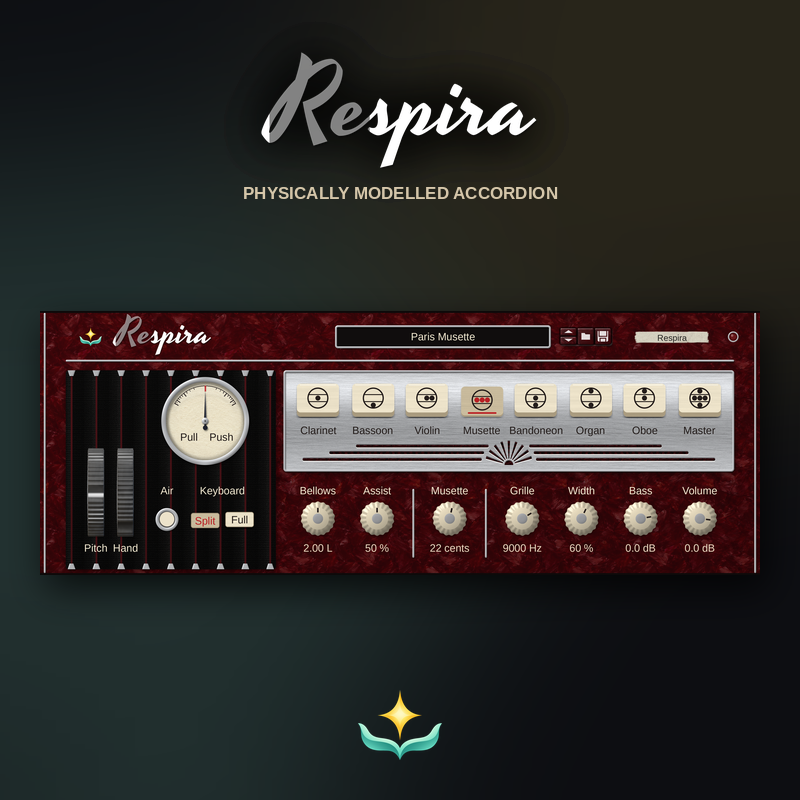
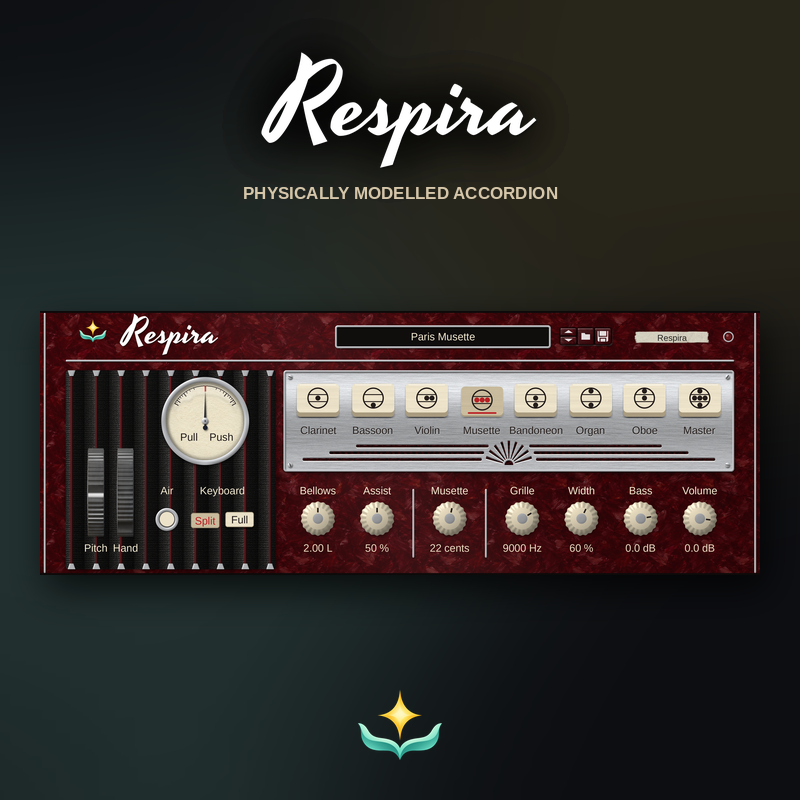
Respira's chosen red panel on its coming-soon page
The owner chose the red panel; its front and rear previews and the
thumbnail now come from reason-rack-extensions main c2268f5c, with the
solid white wordmark, the aligned header and the more realistic bellows,
grille and celluloid. The thumbnail's wordmark follows the panel's, so
its RE pair is no longer dimmed.

Claude-Session: https://claude.ai/code/session_01FqKD1t6d9Tje5juqcUbKQ6

diff --git a/product/respira/index.html b/product/respira/index.html
@@ -11,7 +11,7 @@
   <meta property="og:description" content="Respira is a physically modelled accordion Rack Extension for Reason, in development: play the bellows with the mod wheel, through eight registers of simulated steel reeds with bass and chord buttons.">
   <meta property="og:type" content="website">
   <meta property="og:url" content="https://protocodus.cz/product/respira/">
-  <meta property="og:image" content="https://protocodus.cz/product/respira/Respira_Thumbnail_800.png?v=20261027-respira-oxblood">
+  <meta property="og:image" content="https://protocodus.cz/product/respira/Respira_Thumbnail_800.png?v=20261027-respira-red">
   <meta property="og:image:width" content="800">
   <meta property="og:image:height" content="800">
   <meta property="og:image:alt" content="Respira Rack Extension front panel under the Respira name, with the hand wheels and pressure gauge on bellows cloth and eight register tabs on a nickel grille">
@@ -87,8 +87,8 @@
           </div>
         </div>
         <figure class="shot hero-shot">
-          <a class="screenshot-link" href="respira-rack-front.webp?v=20261027-respira-oxblood" aria-label="View the Respira Rack Extension front panel at full size" data-analytics-cta="front_panel" data-analytics-action="view_screenshot">
-            <img src="respira-rack-front.webp?v=20261027-respira-oxblood" width="1508" height="552" fetchpriority="high" decoding="async" alt="Respira Rack Extension front panel with a pull and push pressure gauge, pitch and hand wheels, the air button and keyboard switch on bellows cloth, eight register tabs on a nickel grille and seven sound controls">
+          <a class="screenshot-link" href="respira-rack-front.webp?v=20261027-respira-red" aria-label="View the Respira Rack Extension front panel at full size" data-analytics-cta="front_panel" data-analytics-action="view_screenshot">
+            <img src="respira-rack-front.webp?v=20261027-respira-red" width="1508" height="552" fetchpriority="high" decoding="async" alt="Respira Rack Extension front panel with a pull and push pressure gauge, pitch and hand wheels, the air button and keyboard switch on bellows cloth, eight register tabs on a nickel grille and seven sound controls">
             <span class="shot-caption">Front panel · development build <span>View full size <span aria-hidden="true">↗</span></span></span>
           </a>
         </figure>
@@ -120,8 +120,8 @@
           <p class="lede">Turn the rack around for Momentum, which sets how smoothly the bellows turn at each change of direction, a chart of the registers, oversampling and the dry stereo output, ready for your own room and effects.</p>
         </div>
         <figure class="shot">
-          <a class="screenshot-link" href="respira-rack-rear.webp?v=20261027-respira-oxblood" aria-label="View the Respira Rack Extension rear panel at full size" data-analytics-cta="rear_panel" data-analytics-action="view_screenshot">
-            <img src="respira-rack-rear.webp?v=20261027-respira-oxblood" width="1508" height="552" loading="lazy" decoding="async" alt="Respira Rack Extension rear panel with the Momentum knob, a chart of the eight registers, the oversampling choice and the stereo audio outputs">
+          <a class="screenshot-link" href="respira-rack-rear.webp?v=20261027-respira-red" aria-label="View the Respira Rack Extension rear panel at full size" data-analytics-cta="rear_panel" data-analytics-action="view_screenshot">
+            <img src="respira-rack-rear.webp?v=20261027-respira-red" width="1508" height="552" loading="lazy" decoding="async" alt="Respira Rack Extension rear panel with the Momentum knob, a chart of the eight registers, the oversampling choice and the stereo audio outputs">
             <span class="shot-caption">Rear panel &amp; connections <span>View full size <span aria-hidden="true">↗</span></span></span>
           </a>
         </figure>

diff --git a/index.html b/index.html
@@ -157,7 +157,7 @@
           </article>
 
           <article class="product-card p-respira">
-            <a class="product-shot" href="/product/respira/" aria-label="Explore Respira" data-analytics-cta="product_respira_image" data-analytics-action="select_product"><img src="product/respira/respira-rack-front.webp?v=20261027-respira-oxblood" width="1508" height="552" loading="lazy" decoding="async" alt="Respira Rack Extension front panel, development build"></a>
+            <a class="product-shot" href="/product/respira/" aria-label="Explore Respira" data-analytics-cta="product_respira_image" data-analytics-action="select_product"><img src="product/respira/respira-rack-front.webp?v=20261027-respira-red" width="1508" height="552" loading="lazy" decoding="async" alt="Respira Rack Extension front panel, development build"></a>
             <div class="product-body">
               <div class="product-tags"><span>Rack Extension</span><span class="product-type">Modelled accordion · In development</span></div>
               <h3><a href="/product/respira/" data-analytics-cta="product_respira_title" data-analytics-action="select_product">Respira</a></h3>

diff --git a/product/SCREENSHOTS.md b/product/SCREENSHOTS.md
@@ -17,7 +17,7 @@ Rack device, such as Septum, have no page.
 | Ceres | Unchanged Rack 1.0.0f1 first-public-release candidate prepared 23 October 2026; exact release sources, default panel state and SHA-256 records in [`ceres/ASSET_PROVENANCE.json`](ceres/ASSET_PROVENANCE.json). | Complete front/back PNGs and matching WebPs, 754 × 414; 800 × 800 thumbnail; four-page candidate player guide |
 | Press78 | Unchanged Rack 0.1.0b15 panel renders `Docs/screenshots/Press78_{Front,Back}.png`, canonical revision `1f74ad77`; earlier candidate media retained. | `press78-rack-front.webp` and `press78-rack-rear.webp`, 754 × 552 |
 | Aculele | Rack 0.3.0d1 final first-pass panel previews from `Examples/Aculele/Design/render_panels.py --review`, main revision `3f161d1c`; no SDK build. Records in [`aculele/ASSET_PROVENANCE.json`](aculele/ASSET_PROVENANCE.json). | `aculele-rack-front.webp` and `aculele-rack-rear.webp`, 1508 × 1104; 800 × 800 thumbnail |
-| Respira | Rack 0.1.0d1 redesigned first-pass panel previews committed in `Examples/Respira/Docs/screenshots/`, main revision `70df34a8`; no SDK build. Records in [`respira/ASSET_PROVENANCE.json`](respira/ASSET_PROVENANCE.json). | `respira-rack-front.webp` and `respira-rack-rear.webp`, 1508 × 552; 800 × 800 thumbnail |
+| Respira | Rack 0.1.0d1 final first-pass panel previews (the red panel the owner chose) committed in `Examples/Respira/Docs/screenshots/`, main revision `c2268f5c`; no SDK build. Records in [`respira/ASSET_PROVENANCE.json`](respira/ASSET_PROVENANCE.json). | `respira-rack-front.webp` and `respira-rack-rear.webp`, 1508 × 552; 800 × 800 thumbnail |
 | Aculyre | Rack 0.4.0d1 final first-pass panel previews from `Examples/Aculyre/Design/render_panels.py`, main revision `854e3197` (byte-identical to the branch revision `2ecab2ac` first published); no SDK build. Records in [`aculyre/ASSET_PROVENANCE.json`](aculyre/ASSET_PROVENANCE.json). | `aculyre-rack-front.webp` and `aculyre-rack-rear.webp`, 1508 × 828; 800 × 800 thumbnail |
 | Lamer Degrader | Public Shop listing 1.0.0; existing full front/rear PNGs and thumbnail verified byte-for-byte against current public Shop originals. Exact URLs and hashes are in `lamer/ASSET_PROVENANCE.json`. | Complete front/rear PNGs and WebPs, 1600 × 293; 800 × 800 thumbnail. Existing mascots, poster and demonstration video retained. |
 | Podcare | Existing repository illustration | Existing card retained |
@@ -149,8 +149,10 @@ the panel's lettering with its RE pair at half opacity, a one-line description,
 the Protocodus logo at the bottom); the thumbnails also serve as the pages'
 social images. The panels were rendered while each instrument's first pass was
 still under way; they are replaced once each first pass is done.
-Respira's images and thumbnail were refreshed the same day from its redesigned
-panel (white wordmark, darker oxblood finish, the gauge over Air and Keyboard).
+Respira's images and thumbnail were refreshed twice the same day: from its
+redesigned panel (darker oxblood finish, the gauge over Air and Keyboard), then
+from the red panel the owner chose, whose wordmark is solid white with no
+dimmed RE pair; its thumbnail's wordmark follows the panel.
 Aculele's rear image was refreshed from its 0.3.0d1 panels, which add the F0
 chuck keyswitch; its front and thumbnail are byte-identical to the first ones.
 Aculyre's merged panels are byte-identical to the ones first published.
